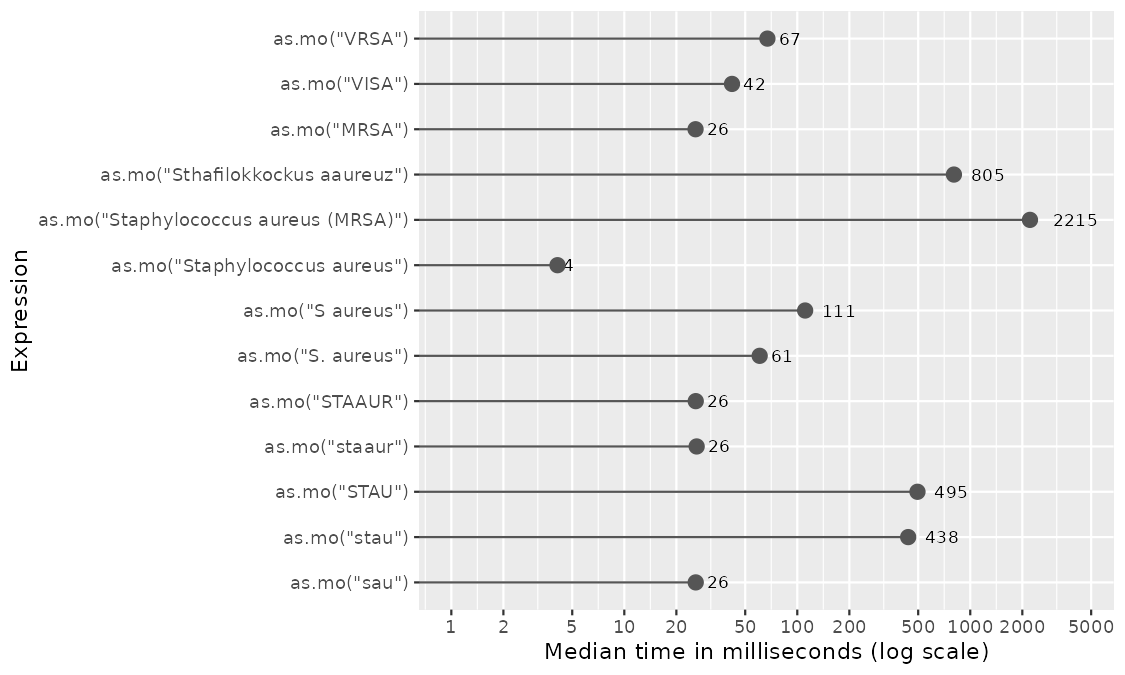
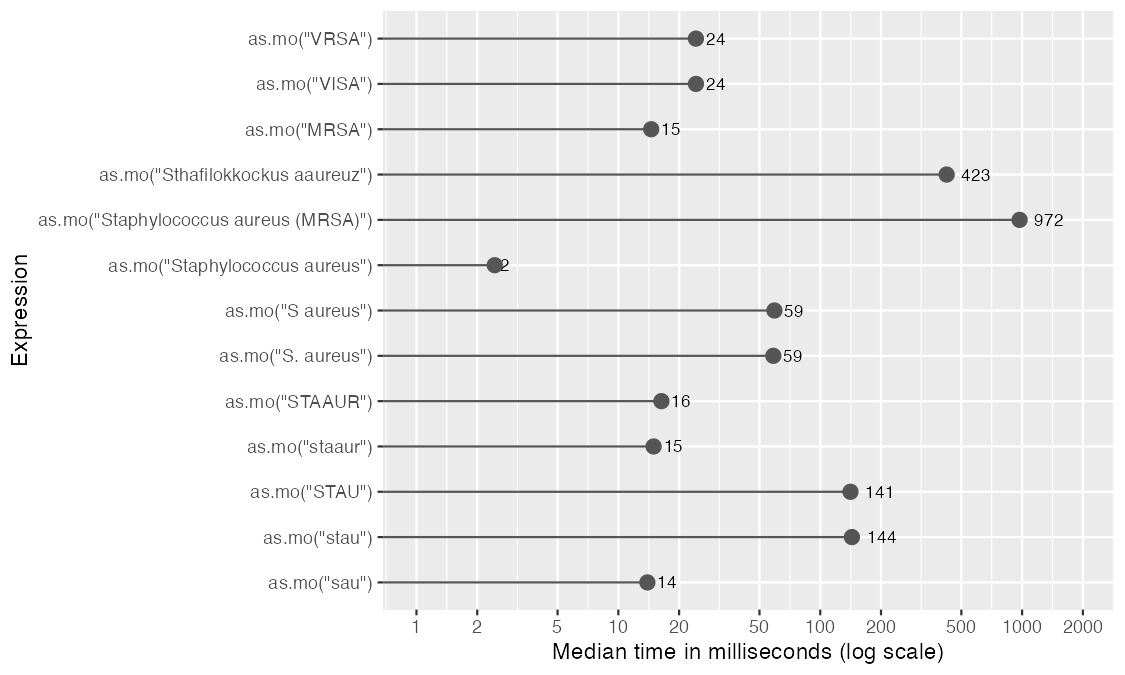
(v1.4.0.9030) as.mo() fix for known lab codes

diff --git a/docs/articles/benchmarks.html b/docs/articles/benchmarks.html
@@ -39,7 +39,7 @@
       </button>
       <span class="navbar-brand">
         <a class="navbar-link" href="../index.html">AMR (for R)</a>
-        <span class="version label label-default" data-toggle="tooltip" data-placement="bottom" title="Latest development version">1.4.0.9008</span>
+        <span class="version label label-default" data-toggle="tooltip" data-placement="bottom" title="Latest development version">1.4.0.9030</span>
       </span>
     </div>
 
@@ -187,8 +187,7 @@
 
       
 
-      </header><script src="benchmarks_files/accessible-code-block-0.0.1/empty-anchor.js"></script><link href="benchmarks_files/anchor-sections-1.0/anchor-sections.css" rel="stylesheet">
-<script src="benchmarks_files/anchor-sections-1.0/anchor-sections.js"></script><div class="row">
+      </header><script src="benchmarks_files/header-attrs-2.4/header-attrs.js"></script><script src="benchmarks_files/accessible-code-block-0.0.1/empty-anchor.js"></script><div class="row">
   <div class="col-md-9 contents">
     <div class="page-header toc-ignore">
       <h1 data-toc-skip>Benchmarks</h1>
@@ -228,20 +227,20 @@
   times <span class="op">=</span> <span class="fl">10</span><span class="op">)</span>
 <span class="fu"><a href="https://docs.ropensci.org/skimr/reference/print.html">print</a></span><span class="op">(</span><span class="va">S.aureus</span>, unit <span class="op">=</span> <span class="st">"ms"</span>, signif <span class="op">=</span> <span class="fl">2</span><span class="op">)</span>
 <span class="co"># Unit: milliseconds</span>
-<span class="co">#                                   expr    min     lq   mean median     uq  max</span>
-<span class="co">#                           as.mo("sau")   26.0   26.0   50.0   26.0   26.0  180</span>
-<span class="co">#                          as.mo("stau")  430.0  430.0  470.0  440.0  490.0  630</span>
-<span class="co">#                          as.mo("STAU")  430.0  440.0  470.0  500.0  500.0  500</span>
-<span class="co">#                        as.mo("staaur")   26.0   26.0   32.0   26.0   26.0   76</span>
-<span class="co">#                        as.mo("STAAUR")   26.0   26.0   44.0   26.0   81.0   83</span>
-<span class="co">#                     as.mo("S. aureus")   60.0   60.0   77.0   61.0  110.0  120</span>
-<span class="co">#                      as.mo("S aureus")   60.0   61.0   94.0  110.0  120.0  120</span>
-<span class="co">#         as.mo("Staphylococcus aureus")    4.1    4.1    9.6    4.1    4.2   59</span>
-<span class="co">#  as.mo("Staphylococcus aureus (MRSA)") 2200.0 2200.0 2200.0 2200.0 2300.0 2300</span>
-<span class="co">#       as.mo("Sthafilokkockus aaureuz")  760.0  800.0  810.0  800.0  810.0  840</span>
-<span class="co">#                          as.mo("MRSA")   26.0   26.0   37.0   26.0   26.0   83</span>
-<span class="co">#                          as.mo("VISA")   42.0   42.0   59.0   42.0   92.0   97</span>
-<span class="co">#                          as.mo("VRSA")   42.0   42.0   68.0   67.0   92.0   97</span>
+<span class="co">#                                   expr   min  lq  mean median     uq    max</span>
+<span class="co">#                           as.mo("sau")  11.0  12  16.0   14.0   15.0   40.0</span>
+<span class="co">#                          as.mo("stau") 110.0 120 140.0  140.0  150.0  160.0</span>
+<span class="co">#                          as.mo("STAU") 110.0 120 140.0  140.0  140.0  150.0</span>
+<span class="co">#                        as.mo("staaur")  12.0  13  20.0   15.0   16.0   45.0</span>
+<span class="co">#                        as.mo("STAAUR")  15.0  15  26.0   16.0   41.0   58.0</span>
+<span class="co">#                     as.mo("S. aureus")  31.0  35  50.0   59.0   62.0   65.0</span>
+<span class="co">#                      as.mo("S aureus")  27.0  33  59.0   59.0   62.0  160.0</span>
+<span class="co">#         as.mo("Staphylococcus aureus")   1.9   2   2.4    2.4    2.7    2.9</span>
+<span class="co">#  as.mo("Staphylococcus aureus (MRSA)") 910.0 960 980.0  970.0 1000.0 1100.0</span>
+<span class="co">#       as.mo("Sthafilokkockus aaureuz") 400.0 410 430.0  420.0  440.0  560.0</span>
+<span class="co">#                          as.mo("MRSA")  12.0  13  19.0   15.0   15.0   42.0</span>
+<span class="co">#                          as.mo("VISA")  20.0  22  31.0   24.0   47.0   54.0</span>
+<span class="co">#                          as.mo("VRSA")  22.0  23  35.0   24.0   52.0   56.0</span>
 <span class="co">#  neval</span>
 <span class="co">#     10</span>
 <span class="co">#     10</span>
@@ -285,8 +284,8 @@
 <span class="fu"><a href="https://docs.ropensci.org/skimr/reference/print.html">print</a></span><span class="op">(</span><span class="va">run_it</span>, unit <span class="op">=</span> <span class="st">"ms"</span>, signif <span class="op">=</span> <span class="fl">3</span><span class="op">)</span>
 <span class="co"># Unit: milliseconds</span>
 <span class="co">#        expr min  lq mean median  uq max neval</span>
-<span class="co">#  mo_name(x) 308 326  399    331 370 676    10</span></pre></div>
-<p>So getting official taxonomic names of 2,000,000 (!!) items consisting of 90 unique values only takes 0.331 seconds. You only lose time on your unique input values.</p>
+<span class="co">#  mo_name(x) 165 176  223    202 274 318    10</span></pre></div>
+<p>So getting official taxonomic names of 2,000,000 (!!) items consisting of 90 unique values only takes 0.202 seconds. You only lose time on your unique input values.</p>
 </div>
 <div id="precalculated-results" class="section level3">
 <h3 class="hasAnchor">
@@ -299,11 +298,11 @@
                          times <span class="op">=</span> <span class="fl">10</span><span class="op">)</span>
 <span class="fu"><a href="https://docs.ropensci.org/skimr/reference/print.html">print</a></span><span class="op">(</span><span class="va">run_it</span>, unit <span class="op">=</span> <span class="st">"ms"</span>, signif <span class="op">=</span> <span class="fl">3</span><span class="op">)</span>
 <span class="co"># Unit: milliseconds</span>
-<span class="co">#  expr   min    lq  mean median    uq    max neval</span>
-<span class="co">#     A 16.20 16.20 18.60  17.90 18.90  28.00    10</span>
-<span class="co">#     B 50.90 51.10 57.70  51.20 53.10 108.00    10</span>
-<span class="co">#     C  3.58  3.72  4.03   4.06  4.14   4.91    10</span></pre></div>
-<p>So going from <code><a href="../reference/mo_property.html">mo_name("Staphylococcus aureus")</a></code> to <code>"Staphylococcus aureus"</code> takes 0.0041 seconds - it doesn’t even start calculating <em>if the result would be the same as the expected resulting value</em>. That goes for all helper functions:</p>
+<span class="co">#  expr   min    lq  mean median    uq   max neval</span>
+<span class="co">#     A  7.83  8.05  9.56   9.43 10.90 12.90    10</span>
+<span class="co">#     B 23.50 24.40 30.20  25.50 26.80 74.50    10</span>
+<span class="co">#     C  2.00  2.19  2.42   2.41  2.56  3.06    10</span></pre></div>
+<p>So going from <code><a href="../reference/mo_property.html">mo_name("Staphylococcus aureus")</a></code> to <code>"Staphylococcus aureus"</code> takes 0.0024 seconds - it doesn’t even start calculating <em>if the result would be the same as the expected resulting value</em>. That goes for all helper functions:</p>
 <div class="sourceCode" id="cb5"><pre class="downlit">
 <span class="va">run_it</span> <span class="op">&lt;-</span> <span class="fu">microbenchmark</span><span class="op">(</span>A <span class="op">=</span> <span class="fu"><a href="../reference/mo_property.html">mo_species</a></span><span class="op">(</span><span class="st">"aureus"</span><span class="op">)</span>,
                          B <span class="op">=</span> <span class="fu"><a href="../reference/mo_property.html">mo_genus</a></span><span class="op">(</span><span class="st">"Staphylococcus"</span><span class="op">)</span>,
@@ -317,14 +316,14 @@
 <span class="fu"><a href="https://docs.ropensci.org/skimr/reference/print.html">print</a></span><span class="op">(</span><span class="va">run_it</span>, unit <span class="op">=</span> <span class="st">"ms"</span>, signif <span class="op">=</span> <span class="fl">3</span><span class="op">)</span>
 <span class="co"># Unit: milliseconds</span>
 <span class="co">#  expr  min   lq mean median   uq  max neval</span>
-<span class="co">#     A 3.62 3.62 3.66   3.64 3.67 3.80    10</span>
-<span class="co">#     B 3.57 3.59 3.68   3.64 3.72 4.01    10</span>
-<span class="co">#     C 3.63 3.64 3.65   3.64 3.67 3.71    10</span>
-<span class="co">#     D 3.57 3.58 3.62   3.61 3.67 3.69    10</span>
-<span class="co">#     E 3.56 3.57 3.60   3.59 3.60 3.68    10</span>
-<span class="co">#     F 3.55 3.58 3.73   3.65 3.85 4.01    10</span>
-<span class="co">#     G 3.54 3.56 3.62   3.58 3.61 3.93    10</span>
-<span class="co">#     H 3.53 3.57 3.59   3.58 3.63 3.66    10</span></pre></div>
+<span class="co">#     A 1.69 1.75 1.90   1.86 2.00 2.25    10</span>
+<span class="co">#     B 1.69 1.72 1.86   1.79 1.87 2.43    10</span>
+<span class="co">#     C 1.67 1.75 1.89   1.81 1.93 2.67    10</span>
+<span class="co">#     D 1.64 1.73 1.87   1.87 1.94 2.23    10</span>
+<span class="co">#     E 1.65 1.75 1.90   1.83 1.92 2.35    10</span>
+<span class="co">#     F 1.70 1.75 1.87   1.85 1.93 2.20    10</span>
+<span class="co">#     G 1.73 1.83 1.93   1.93 2.01 2.25    10</span>
+<span class="co">#     H 1.65 1.73 1.85   1.77 2.06 2.11    10</span></pre></div>
 <p>Of course, when running <code><a href="../reference/mo_property.html">mo_phylum("Firmicutes")</a></code> the function has zero knowledge about the actual microorganism, namely <em>S. aureus</em>. But since the result would be <code>"Firmicutes"</code> anyway, there is no point in calculating the result. And because this package ‘knows’ all phyla of all known bacteria (according to the Catalogue of Life), it can just return the initial value immediately.</p>
 </div>
 <div id="results-in-other-languages" class="section level3">
@@ -351,14 +350,14 @@
                          times <span class="op">=</span> <span class="fl">100</span><span class="op">)</span>
 <span class="fu"><a href="https://docs.ropensci.org/skimr/reference/print.html">print</a></span><span class="op">(</span><span class="va">run_it</span>, unit <span class="op">=</span> <span class="st">"ms"</span>, signif <span class="op">=</span> <span class="fl">4</span><span class="op">)</span>
 <span class="co"># Unit: milliseconds</span>
-<span class="co">#  expr   min    lq  mean median    uq    max neval</span>
-<span class="co">#    en 35.85 36.13 41.92  36.29 36.84 318.20   100</span>
-<span class="co">#    de 42.37 42.67 45.11  42.91 43.19  95.04   100</span>
-<span class="co">#    nl 70.13 70.65 75.92  70.95 71.50 140.20   100</span>
-<span class="co">#    es 42.16 42.46 46.88  42.64 43.20  95.37   100</span>
-<span class="co">#    it 41.85 42.24 46.84  42.40 42.84  95.92   100</span>
-<span class="co">#    fr 42.13 42.53 48.41  42.71 43.27  95.21   100</span>
-<span class="co">#    pt 42.25 42.47 48.56  42.71 43.12  96.60   100</span></pre></div>
+<span class="co">#  expr   min    lq  mean median    uq   max neval</span>
+<span class="co">#    en 16.23 16.62 21.00  17.00 18.51 59.06   100</span>
+<span class="co">#    de 19.27 19.96 22.73  20.36 21.08 69.70   100</span>
+<span class="co">#    nl 31.40 32.54 38.76  33.16 35.34 82.43   100</span>
+<span class="co">#    es 19.36 19.75 23.61  20.26 20.88 67.39   100</span>
+<span class="co">#    it 19.24 19.64 21.23  20.00 20.72 62.92   100</span>
+<span class="co">#    fr 19.19 19.82 25.12  20.16 21.49 70.00   100</span>
+<span class="co">#    pt 19.18 19.64 22.44  20.23 21.47 60.56   100</span></pre></div>
 <p>Currently supported are German, Dutch, Spanish, Italian, French and Portuguese.</p>
 </div>
   </div>

diff --git a/docs/news/index.html b/docs/news/index.html
@@ -81,7 +81,7 @@
       </button>
       <span class="navbar-brand">
         <a class="navbar-link" href="../index.html">AMR (for R)</a>
-        <span class="version label label-default" data-toggle="tooltip" data-placement="bottom" title="Latest development version">1.4.0.9029</span>
+        <span class="version label label-default" data-toggle="tooltip" data-placement="bottom" title="Latest development version">1.4.0.9030</span>
       </span>
     </div>
 
@@ -236,13 +236,13 @@
       <small>Source: <a href='https://github.com/msberends/AMR/blob/master/NEWS.md'><code>NEWS.md</code></a></small>
     </div>
 
-    <div id="amr-1409029" class="section level1">
-<h1 class="page-header" data-toc-text="1.4.0.9029">
-<a href="#amr-1409029" class="anchor"></a>AMR 1.4.0.9029<small> Unreleased </small>
+    <div id="amr-1409030" class="section level1">
+<h1 class="page-header" data-toc-text="1.4.0.9030">
+<a href="#amr-1409030" class="anchor"></a>AMR 1.4.0.9030<small> Unreleased </small>
 </h1>
-<div id="last-updated-1-december-2020" class="section level2">
+<div id="last-updated-3-december-2020" class="section level2">
 <h2 class="hasAnchor">
-<a href="#last-updated-1-december-2020" class="anchor"></a><small>Last updated: 1 December 2020</small>
+<a href="#last-updated-3-december-2020" class="anchor"></a><small>Last updated: 3 December 2020</small>
 </h2>
 <div id="new" class="section level3">
 <h3 class="hasAnchor">
@@ -284,6 +284,8 @@
 <li>Fix for using <code><a href="../reference/as.rsi.html">as.rsi()</a></code> on a data.frame in older R versions</li>
 <li>
 <code><a href="../reference/as.rsi.html">as.rsi()</a></code> on a data.frame will not print a message anymore if the values are already clean R/SI values</li>
+<li>Fixed a bug where <code><a href="../reference/as.mo.html">mo_uncertainties()</a></code> would not return the results based on the MO matching score</li>
+<li>Fixed a bug where <code><a href="../reference/as.mo.html">as.mo()</a></code> would not return results for known laboratory codes for microorganisms</li>
 </ul>
 </div>
 <div id="other" class="section level3">

diff --git a/docs/reference/guess_ab_col.html b/docs/reference/guess_ab_col.html
@@ -82,7 +82,7 @@
       </button>
       <span class="navbar-brand">
         <a class="navbar-link" href="../index.html">AMR (for R)</a>
-        <span class="version label label-default" data-toggle="tooltip" data-placement="bottom" title="Latest development version">1.4.0.9008</span>
+        <span class="version label label-default" data-toggle="tooltip" data-placement="bottom" title="Latest development version">1.4.0.9030</span>
       </span>
     </div>
 
@@ -290,7 +290,7 @@ The <a href='lifecycle.html'>lifecycle</a> of this function is <strong>stable</s
 <span class='co'># [1] "tetr"</span>
 
 <span class='fu'>guess_ab_col</span><span class='op'>(</span><span class='va'>df</span>, <span class='st'>"J01AA07"</span>, verbose <span class='op'>=</span> <span class='cn'>TRUE</span><span class='op'>)</span>
-<span class='co'># NOTE: Using column `tetr` as input for `J01AA07` (tetracycline).</span>
+<span class='co'># NOTE: Using column 'tetr' as input for J01AA07 (tetracycline).</span>
 <span class='co'># [1] "tetr"</span>
 
 <span class='co'># WHONET codes</span>

diff --git a/docs/404.html b/docs/404.html
@@ -81,7 +81,7 @@
       </button>
       <span class="navbar-brand">
         <a class="navbar-link" href="https://msberends.github.io/AMR//index.html">AMR (for R)</a>
-        <span class="version label label-default" data-toggle="tooltip" data-placement="bottom" title="Latest development version">1.4.0.9029</span>
+        <span class="version label label-default" data-toggle="tooltip" data-placement="bottom" title="Latest development version">1.4.0.9030</span>
       </span>
     </div>
 

diff --git a/docs/articles/index.html b/docs/articles/index.html
@@ -81,7 +81,7 @@
       </button>
       <span class="navbar-brand">
         <a class="navbar-link" href="../index.html">AMR (for R)</a>
-        <span class="version label label-default" data-toggle="tooltip" data-placement="bottom" title="Latest development version">1.4.0.9029</span>
+        <span class="version label label-default" data-toggle="tooltip" data-placement="bottom" title="Latest development version">1.4.0.9030</span>
       </span>
     </div>
 

diff --git a/docs/reference/AMR-deprecated.html b/docs/reference/AMR-deprecated.html
@@ -82,7 +82,7 @@
       </button>
       <span class="navbar-brand">
         <a class="navbar-link" href="../index.html">AMR (for R)</a>
-        <span class="version label label-default" data-toggle="tooltip" data-placement="bottom" title="Latest development version">1.4.0.9008</span>
+        <span class="version label label-default" data-toggle="tooltip" data-placement="bottom" title="Latest development version">1.4.0.9030</span>
       </span>
     </div>
 

diff --git a/docs/reference/age.html b/docs/reference/age.html
@@ -82,7 +82,7 @@
       </button>
       <span class="navbar-brand">
         <a class="navbar-link" href="../index.html">AMR (for R)</a>
-        <span class="version label label-default" data-toggle="tooltip" data-placement="bottom" title="Latest development version">1.4.0.9008</span>
+        <span class="version label label-default" data-toggle="tooltip" data-placement="bottom" title="Latest development version">1.4.0.9030</span>
       </span>
     </div>
 

diff --git a/docs/reference/age_groups.html b/docs/reference/age_groups.html
@@ -82,7 +82,7 @@
       </button>
       <span class="navbar-brand">
         <a class="navbar-link" href="../index.html">AMR (for R)</a>
-        <span class="version label label-default" data-toggle="tooltip" data-placement="bottom" title="Latest development version">1.4.0.9029</span>
+        <span class="version label label-default" data-toggle="tooltip" data-placement="bottom" title="Latest development version">1.4.0.9030</span>
       </span>
     </div>
 

diff --git a/docs/reference/antibiotic_class_selectors.html b/docs/reference/antibiotic_class_selectors.html
@@ -82,7 +82,7 @@
       </button>
       <span class="navbar-brand">
         <a class="navbar-link" href="../index.html">AMR (for R)</a>
-        <span class="version label label-default" data-toggle="tooltip" data-placement="bottom" title="Latest development version">1.4.0.9029</span>
+        <span class="version label label-default" data-toggle="tooltip" data-placement="bottom" title="Latest development version">1.4.0.9030</span>
       </span>
     </div>
 

diff --git a/docs/reference/as.disk.html b/docs/reference/as.disk.html
@@ -82,7 +82,7 @@
       </button>
       <span class="navbar-brand">
         <a class="navbar-link" href="../index.html">AMR (for R)</a>
-        <span class="version label label-default" data-toggle="tooltip" data-placement="bottom" title="Latest development version">1.4.0.9029</span>
+        <span class="version label label-default" data-toggle="tooltip" data-placement="bottom" title="Latest development version">1.4.0.9030</span>
       </span>
     </div>
 

diff --git a/docs/reference/as.mo.html b/docs/reference/as.mo.html
@@ -82,7 +82,7 @@
       </button>
       <span class="navbar-brand">
         <a class="navbar-link" href="../index.html">AMR (for R)</a>
-        <span class="version label label-default" data-toggle="tooltip" data-placement="bottom" title="Latest development version">1.4.0.9029</span>
+        <span class="version label label-default" data-toggle="tooltip" data-placement="bottom" title="Latest development version">1.4.0.9030</span>
       </span>
     </div>
 

diff --git a/docs/reference/as.rsi.html b/docs/reference/as.rsi.html
@@ -82,7 +82,7 @@
       </button>
       <span class="navbar-brand">
         <a class="navbar-link" href="../index.html">AMR (for R)</a>
-        <span class="version label label-default" data-toggle="tooltip" data-placement="bottom" title="Latest development version">1.4.0.9029</span>
+        <span class="version label label-default" data-toggle="tooltip" data-placement="bottom" title="Latest development version">1.4.0.9030</span>
       </span>
     </div>
 
